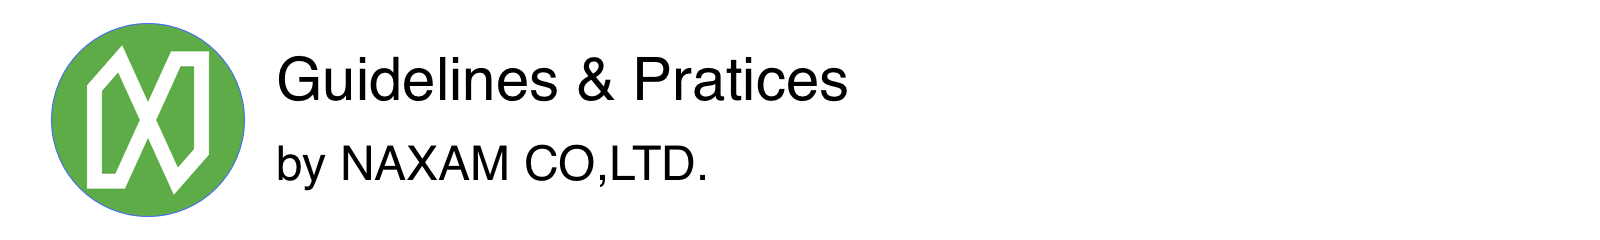
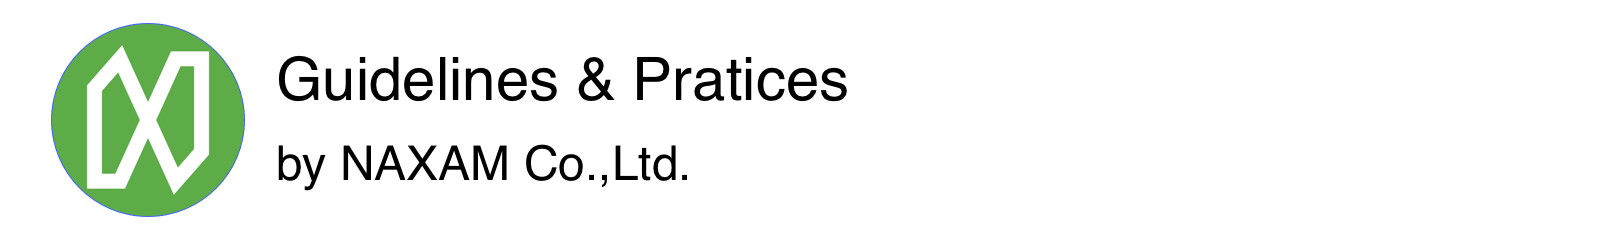
Minor change on repo_header

Changed region(s): [[0.3438, 0.5833, 0.4375, 0.7583]]

diff --git a/README.md b/README.md
@@ -1,6 +1,6 @@
 <img src="./art/repo_header.png" alt="NAXAM Guidelines and Practices" width="728" />
 
-# NAXAM PRACTICAL PRACTICES
+# NAXAM GUIDELINES & PRACTICES
 This repository contains and describes all guidelines and practices used in NAXAM projects.
 
 ## OVERVIEW
